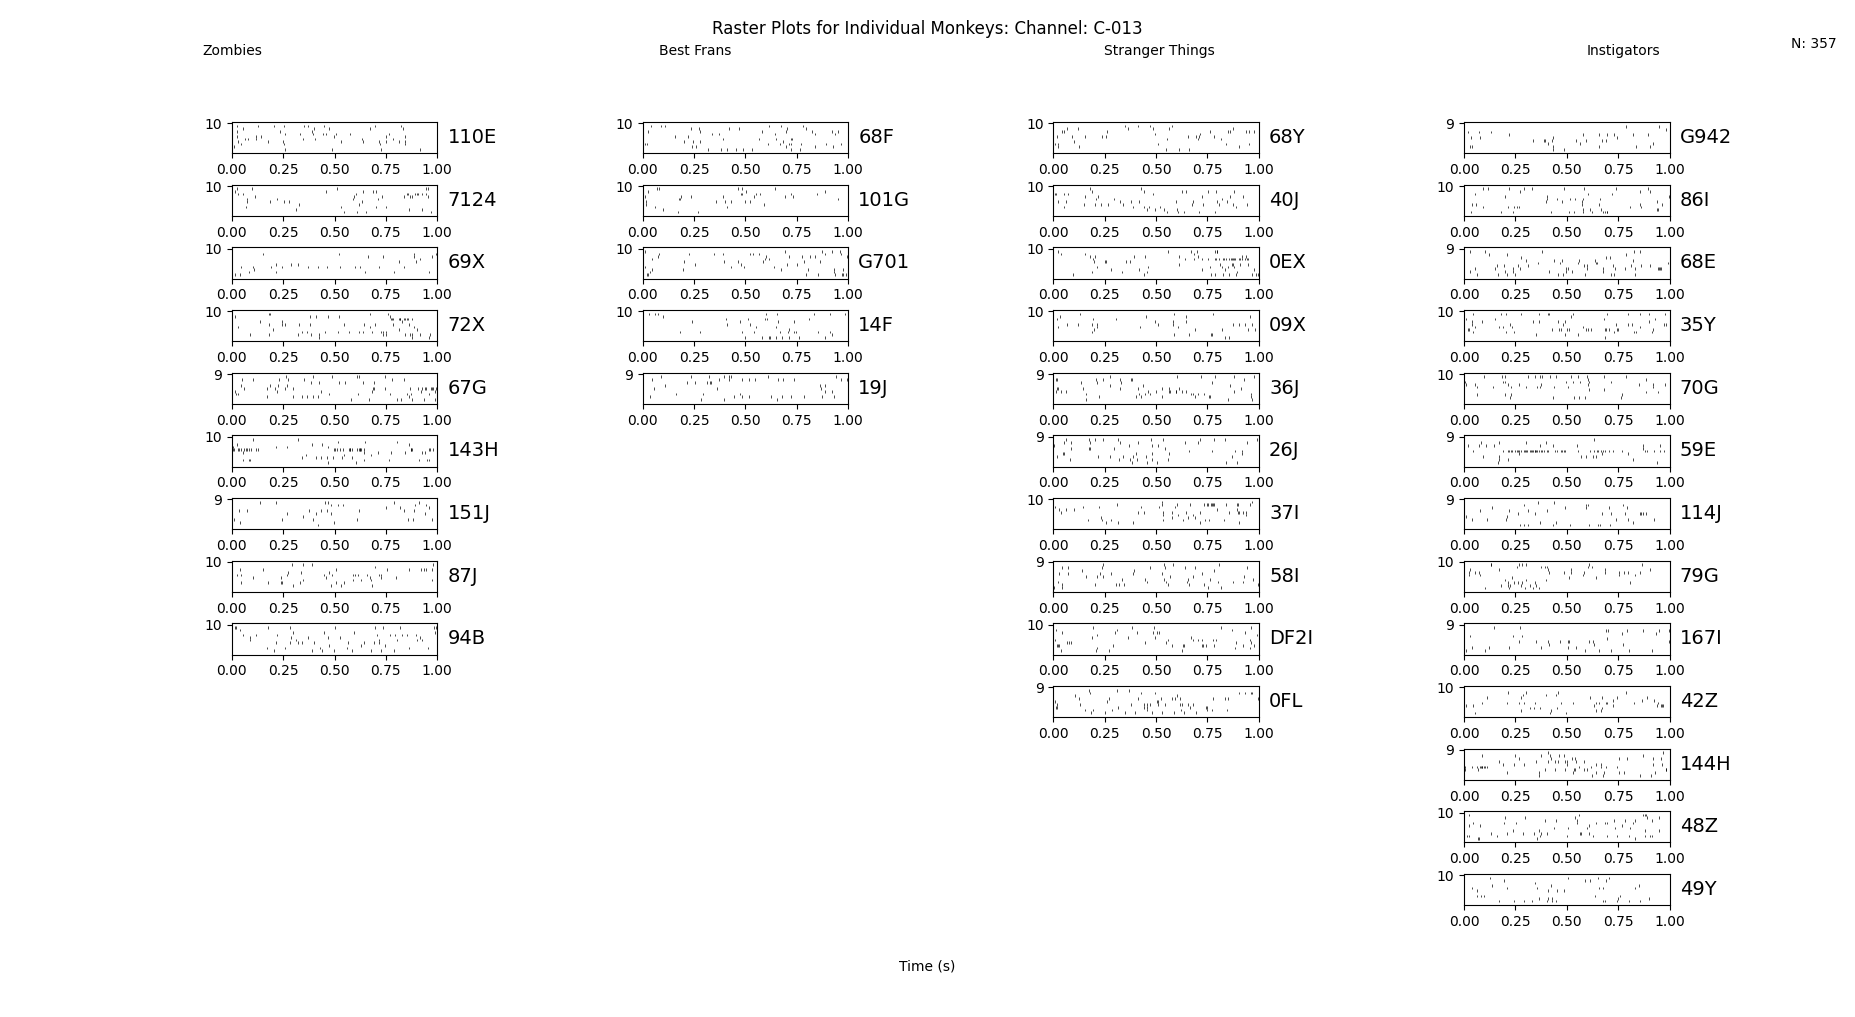
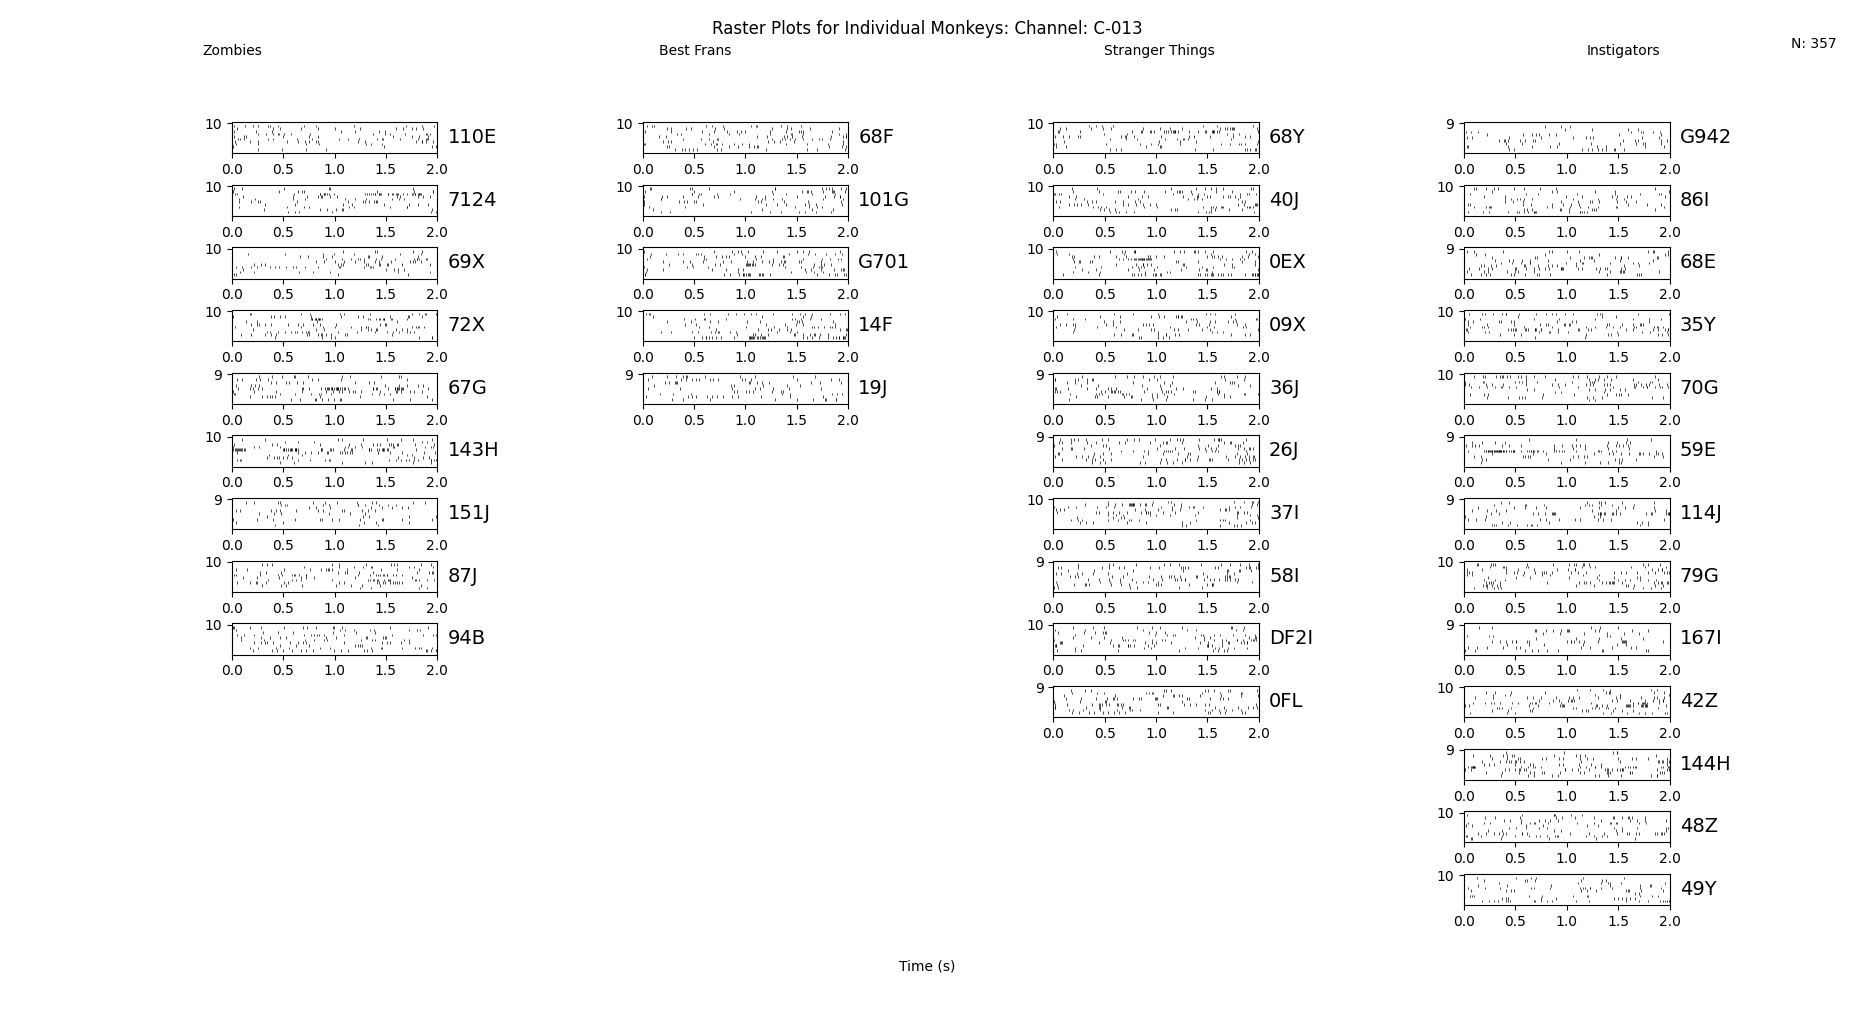
some analysis

diff --git a/EStimShapeAnalysis/src/julie/single_channel_analysis.py b/EStimShapeAnalysis/src/julie/single_channel_analysis.py
@@ -75,7 +75,7 @@ def plot_raster_for_monkeys(raw_data, channel, experiment_name=None):
                 filtered_spike_times_list.append(filtered_spike_times)
 
             ax.eventplot(filtered_spike_times_list, color='black', linewidths=0.5)
-            ax.set_xlim(0, 1.0)
+            ax.set_xlim(0, 2.0)
             ax.set_yticks([len(filtered_spike_times_list)])
             # Place the title text to the right of the subplot
             ax.text(1.05, 0.5, f"{monkey_name}", transform=ax.transAxes, ha='left', va='center', fontsize=14)
